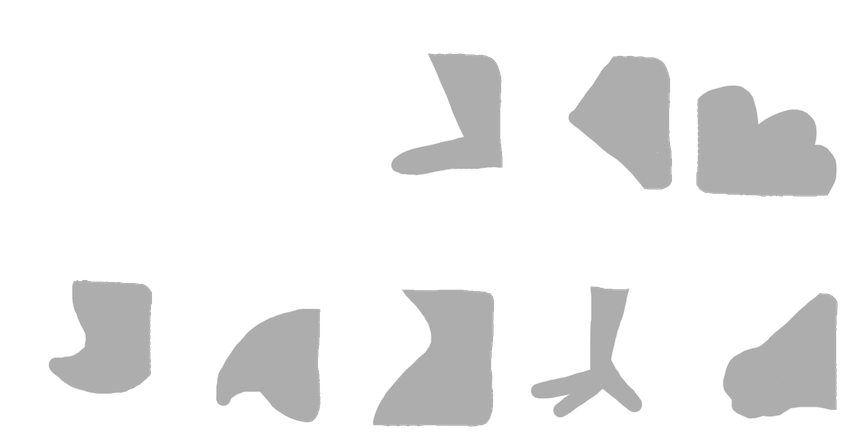
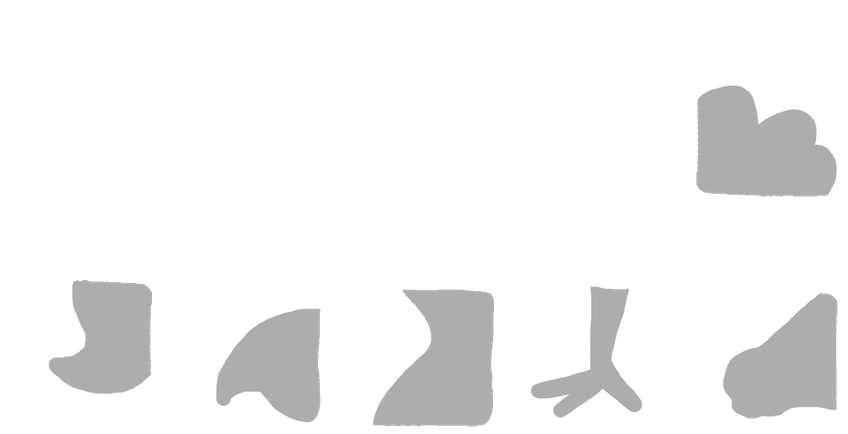
Add level buttons, refactor naming.

Changed region(s): [[0.6745, 0.1198, 0.7972, 0.4493], [0.4599, 0.1198, 0.6132, 0.4194]]

diff --git a/ListenTo-iOS/ListenTo/LTGameCDViewController.m b/ListenTo-iOS/ListenTo/LTGameCDViewController.m
@@ -28,7 +28,7 @@ static const int IMAGE_BUTTON_SIZE = 175;
     [db newRecordWithType:0];
     
 	// Do any additional setup after loading the view, typically from a nib.
-    self.settings = [NSArray arrayWithContentsOfFile:[[NSBundle mainBundle] pathForResource:@"level-settings" ofType:@"plist"]];
+    self.settings = [NSArray arrayWithContentsOfFile:[[NSBundle mainBundle] pathForResource:@"connect-level-settings" ofType:@"plist"]];
     
     UIImage *backgroundImage = [UIImage imageNamed:[[self.settings objectAtIndex:_level.intValue-1] objectForKey:@"background"]];
     [self.scrollView setBackgroundColor:[[UIColor alloc] initWithPatternImage:backgroundImage]];
